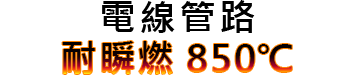
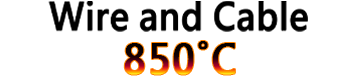
更新首頁標題圖片

diff --git a/src/views/Home.vue b/src/views/Home.vue
@@ -3695,4 +3695,9 @@ article
           display: none
         &:nth-of-type(2)
             display: block
+  .en-style &
+    .application
+      width: 732px
+      @include rwd(960px)
+        width: 46vw
 </style>
